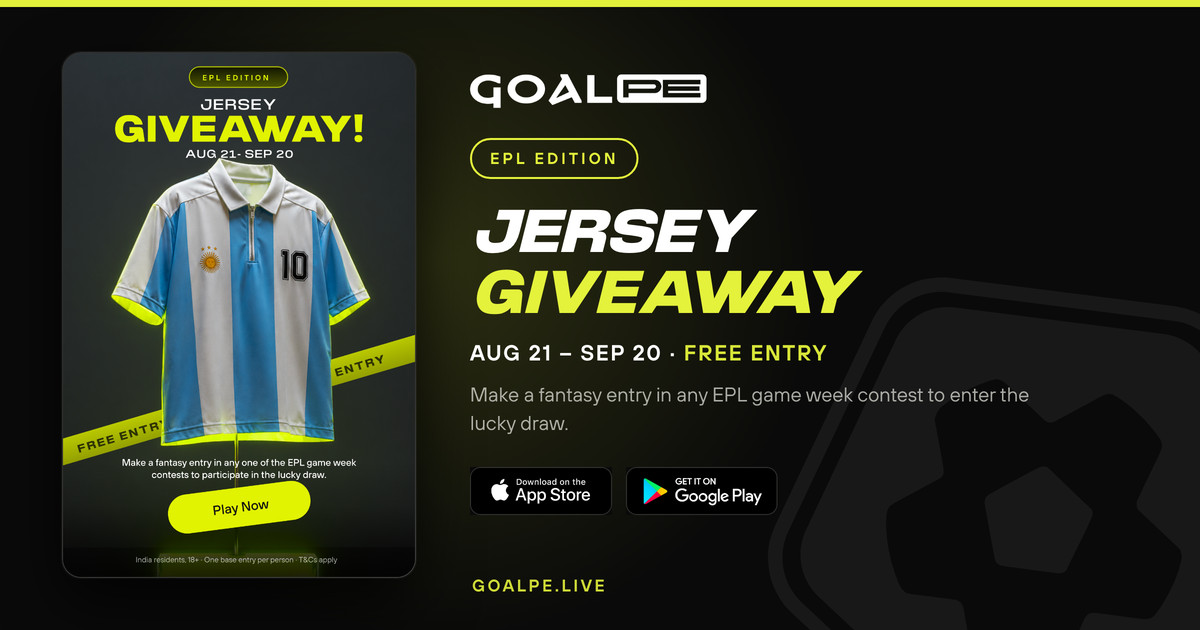
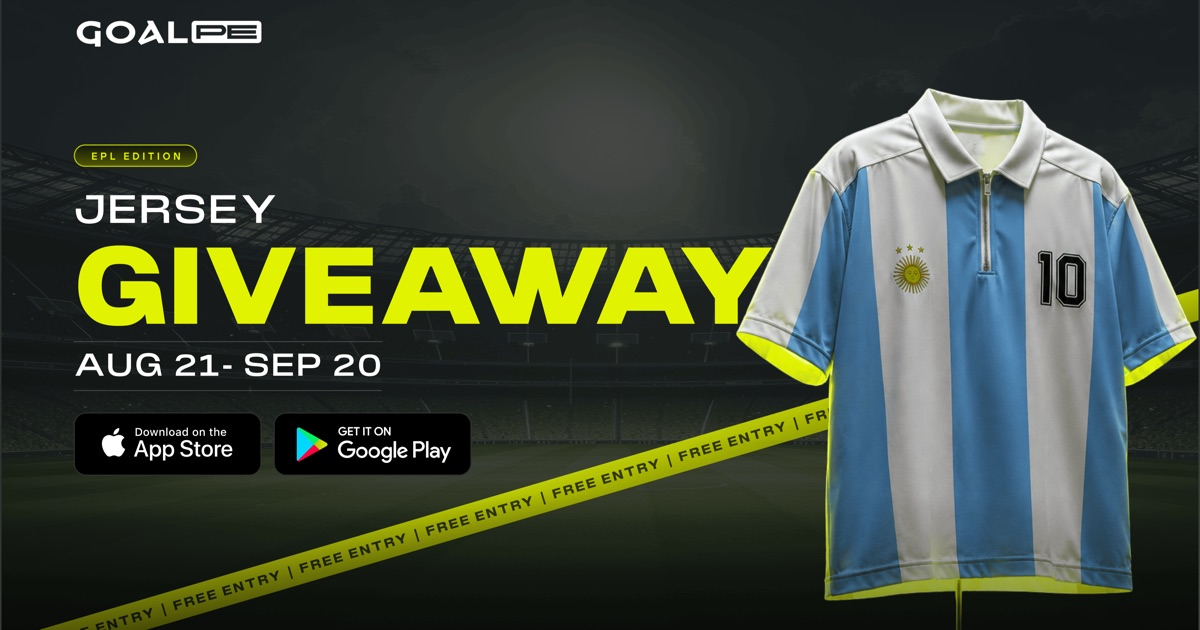
feat(campaign): swap in the jersey giveaway share card
Source art was 4704x3011 at 2.1MB. WhatsApp won't render a large
preview past ~300KB, so it would have shipped with no image at all.
Center-cropped 1.56:1 -> 1.91:1 to match the OG/summary_large_image
card, then downscaled to 1200x630 JPEG (140KB). The crop only takes
the empty headroom above the logo and the hanger stub below the hem.

Bumped to ?v=2 since FB and WhatsApp cache scraped images.

diff --git a/campaign.html b/campaign.html
@@ -18,8 +18,8 @@
     <!-- Kept under ~100 chars: WhatsApp clips the preview description at ~110. -->
     <meta property="og:description"
         content="One fantasy entry in any EPL game week puts you in the draw. Aug 21 – Sep 20.">
-    <meta property="og:image" content="https://goalpe.live/assets/images/og-campaign.jpg?v=1">
-    <meta property="og:image:secure_url" content="https://goalpe.live/assets/images/og-campaign.jpg?v=1">
+    <meta property="og:image" content="https://goalpe.live/assets/images/og-campaign.jpg?v=2">
+    <meta property="og:image:secure_url" content="https://goalpe.live/assets/images/og-campaign.jpg?v=2">
     <meta property="og:image:type" content="image/jpeg">
     <meta property="og:image:width" content="1200">
     <meta property="og:image:height" content="630">
@@ -30,7 +30,7 @@
     <meta name="twitter:title" content="Win an EPL jersey. Free entry.">
     <meta name="twitter:description"
         content="One fantasy entry in any EPL game week puts you in the draw. Aug 21 – Sep 20.">
-    <meta name="twitter:image" content="https://goalpe.live/assets/images/og-campaign.jpg?v=1">
+    <meta name="twitter:image" content="https://goalpe.live/assets/images/og-campaign.jpg?v=2">
 
     <meta name="theme-color" content="#0A0A0A">
     <link rel="icon" type="image/png" href="/assets/images/goalpe-favicon.png">
